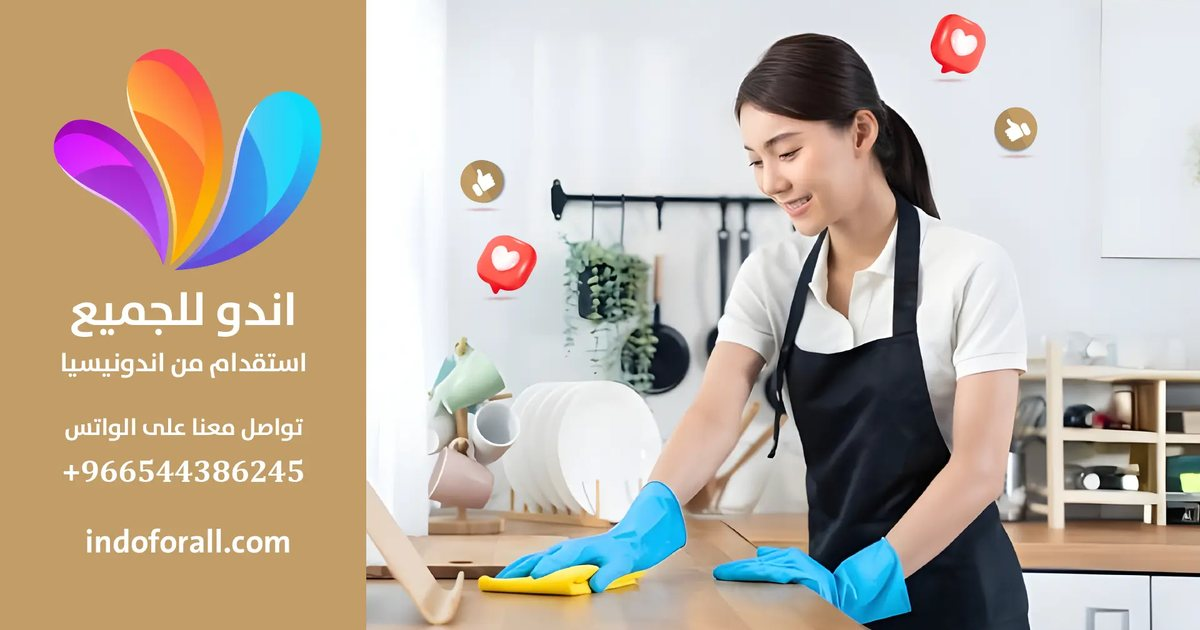
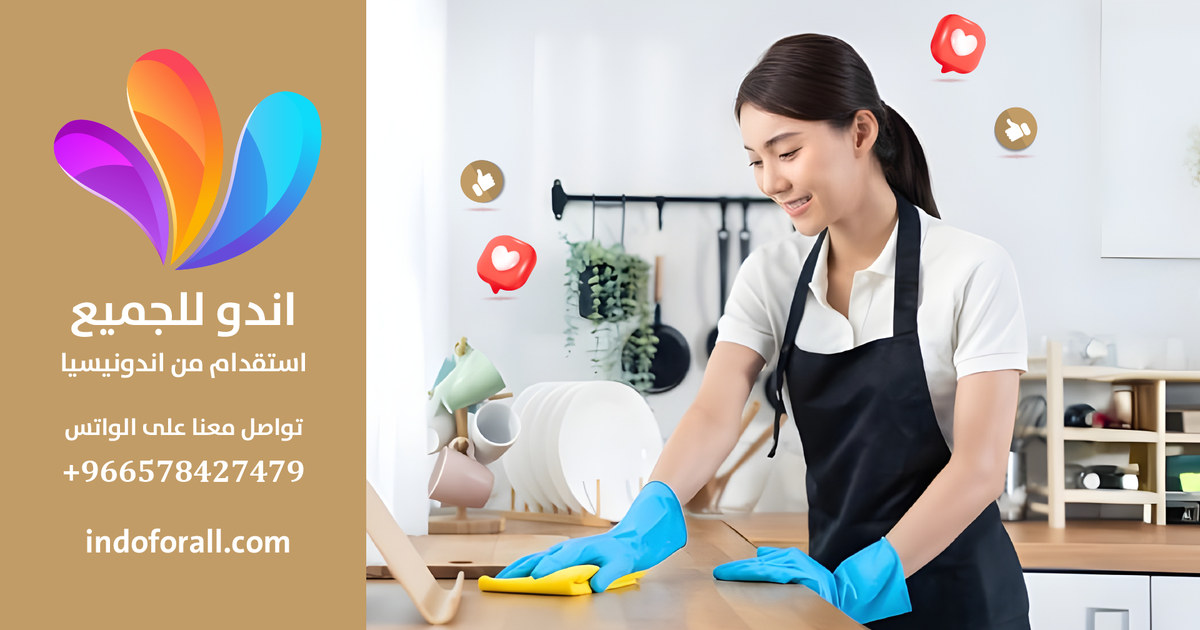
New share image with the new WhatsApp number; remove unused folder
- og-image.jpg rebuilt from the updated design image (same 1200x630
  crop, new number +966578427479); referenced as og-image.jpg?v=2 so
  Facebook/WhatsApp/X fetch the new picture instead of a cached one.
- Include the owner's updated استقدام-عمالة-اندونيسية.webp (new number).
- Delete the unused استقدام-اندونيسيا/ folder (old ad thumbnail).

diff --git a/اسعار-الاستقدام-من-اندونيسيا.html b/اسعار-الاستقدام-من-اندونيسيا.html
@@ -21,7 +21,7 @@
         <meta property="og:title" content="اسعار الاستقدام من اندونيسيا وتكلفة استقدام عاملة اندونيسية | اندو للجميع" />
         <meta property="og:description" content="اسعار الاستقدام من اندونيسيا: استقدام عاملة منزلية اندونيسية بفيزة زيارة 17,000 ريال، سائق خاص 11,500 ريال، وعمالة مهنية 17,000 ريال شاملة الجواز والفحص الطبي والتفييز وتذاكر الطيران." />
         <meta property="og:url" content="https://indoforall.com/%D8%A7%D8%B3%D8%B9%D8%A7%D8%B1-%D8%A7%D9%84%D8%A7%D8%B3%D8%AA%D9%82%D8%AF%D8%A7%D9%85-%D9%85%D9%86-%D8%A7%D9%86%D8%AF%D9%88%D9%86%D9%8A%D8%B3%D9%8A%D8%A7" />
-        <meta property="og:image" content="https://indoforall.com/og-image.jpg" />
+        <meta property="og:image" content="https://indoforall.com/og-image.jpg?v=2" />
         <meta property="og:image:width" content="1200" />
         <meta property="og:image:height" content="630" />
         <meta property="og:image:alt" content="اندو للجميع - استقدام من اندونيسيا" />
@@ -30,7 +30,7 @@
         <meta name="twitter:creator" content="@indoforall" />
         <meta name="twitter:title" content="اسعار الاستقدام من اندونيسيا وتكلفة استقدام عاملة اندونيسية | اندو للجميع" />
         <meta name="twitter:description" content="اسعار الاستقدام من اندونيسيا: استقدام عاملة منزلية اندونيسية بفيزة زيارة 17,000 ريال، سائق خاص 11,500 ريال، وعمالة مهنية 17,000 ريال شاملة الجواز والفحص الطبي والتفييز وتذاكر الطيران." />
-        <meta name="twitter:image" content="https://indoforall.com/og-image.jpg" />
+        <meta name="twitter:image" content="https://indoforall.com/og-image.jpg?v=2" />
 
         <link rel="icon" href="/favicon.ico" sizes="any" />
         <link rel="icon" type="image/png" sizes="32x32" href="/favicon-32x32.png" />
@@ -104,7 +104,7 @@
         "width": 512,
         "height": 512
       },
-      "image": "https://indoforall.com/og-image.jpg",
+      "image": "https://indoforall.com/og-image.jpg?v=2",
       "description": "شركة اندو للجميع متخصصة في الاستقدام من اندونيسيا واستقدام عاملة اندونيسية وسائقين وكوادر مهنية للأسر والشركات في الرياض وجدة وجميع مدن السعودية ودول الخليج، بخبرة تتجاوز 18 سنة وضمان استبدال لمدة 3 شهور.",
       "telephone": "+966578427479",
       "email": "info@indoforall.com",
@@ -227,7 +227,7 @@
       "inLanguage": "ar-SA",
       "primaryImageOfPage": {
         "@type": "ImageObject",
-        "url": "https://indoforall.com/og-image.jpg",
+        "url": "https://indoforall.com/og-image.jpg?v=2",
         "width": 1200,
         "height": 630
       },

diff --git a/مصداقية-الاستقدام-من-اندونيسيا.html b/مصداقية-الاستقدام-من-اندونيسيا.html
@@ -21,7 +21,7 @@
         <meta property="og:title" content="مصداقية الاستقدام من اندونيسيا - إثباتات وتقييمات العملاء | اندو للجميع" />
         <meta property="og:description" content="شاهد إثباتات مصداقية اندو للجميع في الاستقدام من اندونيسيا: تذاكر ووثائق حقيقية لعمالة اندونيسية وصلت إلى عملائنا في السعودية، وتقييمات العملاء بعد استقدام عاملة اندونيسية." />
         <meta property="og:url" content="https://indoforall.com/%D9%85%D8%B5%D8%AF%D8%A7%D9%82%D9%8A%D8%A9-%D8%A7%D9%84%D8%A7%D8%B3%D8%AA%D9%82%D8%AF%D8%A7%D9%85-%D9%85%D9%86-%D8%A7%D9%86%D8%AF%D9%88%D9%86%D9%8A%D8%B3%D9%8A%D8%A7" />
-        <meta property="og:image" content="https://indoforall.com/og-image.jpg" />
+        <meta property="og:image" content="https://indoforall.com/og-image.jpg?v=2" />
         <meta property="og:image:width" content="1200" />
         <meta property="og:image:height" content="630" />
         <meta property="og:image:alt" content="اندو للجميع - استقدام من اندونيسيا" />
@@ -30,7 +30,7 @@
         <meta name="twitter:creator" content="@indoforall" />
         <meta name="twitter:title" content="مصداقية الاستقدام من اندونيسيا - إثباتات وتقييمات العملاء | اندو للجميع" />
         <meta name="twitter:description" content="شاهد إثباتات مصداقية اندو للجميع في الاستقدام من اندونيسيا: تذاكر ووثائق حقيقية لعمالة اندونيسية وصلت إلى عملائنا في السعودية، وتقييمات العملاء بعد استقدام عاملة اندونيسية." />
-        <meta name="twitter:image" content="https://indoforall.com/og-image.jpg" />
+        <meta name="twitter:image" content="https://indoforall.com/og-image.jpg?v=2" />
 
         <link rel="icon" href="/favicon.ico" sizes="any" />
         <link rel="icon" type="image/png" sizes="32x32" href="/favicon-32x32.png" />
@@ -104,7 +104,7 @@
         "width": 512,
         "height": 512
       },
-      "image": "https://indoforall.com/og-image.jpg",
+      "image": "https://indoforall.com/og-image.jpg?v=2",
       "description": "شركة اندو للجميع متخصصة في الاستقدام من اندونيسيا واستقدام عاملة اندونيسية وسائقين وكوادر مهنية للأسر والشركات في الرياض وجدة وجميع مدن السعودية ودول الخليج، بخبرة تتجاوز 18 سنة وضمان استبدال لمدة 3 شهور.",
       "telephone": "+966578427479",
       "email": "info@indoforall.com",
@@ -227,7 +227,7 @@
       "inLanguage": "ar-SA",
       "primaryImageOfPage": {
         "@type": "ImageObject",
-        "url": "https://indoforall.com/og-image.jpg",
+        "url": "https://indoforall.com/og-image.jpg?v=2",
         "width": 1200,
         "height": 630
       },

diff --git a/طريقة-الاستقدام-من-اندونيسيا.html b/طريقة-الاستقدام-من-اندونيسيا.html
@@ -21,7 +21,7 @@
         <meta property="og:title" content="طريقة الاستقدام من اندونيسيا - خطوات استقدام عاملة اندونيسية | اندو للجميع" />
         <meta property="og:description" content="طريقة الاستقدام من اندونيسيا خطوة بخطوة: كيف تستقدم عاملة من اندونيسيا عبر 5 مراحل بسيطة من اختيار العاملة ورفع الطلب حتى حجز التذاكر ووصولها خلال 12-14 يوم." />
         <meta property="og:url" content="https://indoforall.com/%D8%B7%D8%B1%D9%8A%D9%82%D8%A9-%D8%A7%D9%84%D8%A7%D8%B3%D8%AA%D9%82%D8%AF%D8%A7%D9%85-%D9%85%D9%86-%D8%A7%D9%86%D8%AF%D9%88%D9%86%D9%8A%D8%B3%D9%8A%D8%A7" />
-        <meta property="og:image" content="https://indoforall.com/og-image.jpg" />
+        <meta property="og:image" content="https://indoforall.com/og-image.jpg?v=2" />
         <meta property="og:image:width" content="1200" />
         <meta property="og:image:height" content="630" />
         <meta property="og:image:alt" content="اندو للجميع - استقدام من اندونيسيا" />
@@ -30,7 +30,7 @@
         <meta name="twitter:creator" content="@indoforall" />
         <meta name="twitter:title" content="طريقة الاستقدام من اندونيسيا - خطوات استقدام عاملة اندونيسية | اندو للجميع" />
         <meta name="twitter:description" content="طريقة الاستقدام من اندونيسيا خطوة بخطوة: كيف تستقدم عاملة من اندونيسيا عبر 5 مراحل بسيطة من اختيار العاملة ورفع الطلب حتى حجز التذاكر ووصولها خلال 12-14 يوم." />
-        <meta name="twitter:image" content="https://indoforall.com/og-image.jpg" />
+        <meta name="twitter:image" content="https://indoforall.com/og-image.jpg?v=2" />
 
         <link rel="icon" href="/favicon.ico" sizes="any" />
         <link rel="icon" type="image/png" sizes="32x32" href="/favicon-32x32.png" />
@@ -104,7 +104,7 @@
         "width": 512,
         "height": 512
       },
-      "image": "https://indoforall.com/og-image.jpg",
+      "image": "https://indoforall.com/og-image.jpg?v=2",
       "description": "شركة اندو للجميع متخصصة في الاستقدام من اندونيسيا واستقدام عاملة اندونيسية وسائقين وكوادر مهنية للأسر والشركات في الرياض وجدة وجميع مدن السعودية ودول الخليج، بخبرة تتجاوز 18 سنة وضمان استبدال لمدة 3 شهور.",
       "telephone": "+966578427479",
       "email": "info@indoforall.com",
@@ -227,7 +227,7 @@
       "inLanguage": "ar-SA",
       "primaryImageOfPage": {
         "@type": "ImageObject",
-        "url": "https://indoforall.com/og-image.jpg",
+        "url": "https://indoforall.com/og-image.jpg?v=2",
         "width": 1200,
         "height": 630
       },

diff --git a/استقدام-اندو-للجميع.html b/استقدام-اندو-للجميع.html
@@ -21,7 +21,7 @@
         <meta property="og:title" content="استقدام اندو للجميع - شركة متخصصة في الاستقدام من اندونيسيا | اندو للجميع" />
         <meta property="og:description" content="تعرف على شركة اندو للجميع المتخصصة في الاستقدام من اندونيسيا واستقدام عاملة اندونيسية للأسر في السعودية والخليج، بخبرة تتجاوز 18 سنة وفريق يتابعك قبل وبعد وصول العاملة." />
         <meta property="og:url" content="https://indoforall.com/%D8%A7%D8%B3%D8%AA%D9%82%D8%AF%D8%A7%D9%85-%D8%A7%D9%86%D8%AF%D9%88-%D9%84%D9%84%D8%AC%D9%85%D9%8A%D8%B9" />
-        <meta property="og:image" content="https://indoforall.com/og-image.jpg" />
+        <meta property="og:image" content="https://indoforall.com/og-image.jpg?v=2" />
         <meta property="og:image:width" content="1200" />
         <meta property="og:image:height" content="630" />
         <meta property="og:image:alt" content="اندو للجميع - استقدام من اندونيسيا" />
@@ -30,7 +30,7 @@
         <meta name="twitter:creator" content="@indoforall" />
         <meta name="twitter:title" content="استقدام اندو للجميع - شركة متخصصة في الاستقدام من اندونيسيا | اندو للجميع" />
         <meta name="twitter:description" content="تعرف على شركة اندو للجميع المتخصصة في الاستقدام من اندونيسيا واستقدام عاملة اندونيسية للأسر في السعودية والخليج، بخبرة تتجاوز 18 سنة وفريق يتابعك قبل وبعد وصول العاملة." />
-        <meta name="twitter:image" content="https://indoforall.com/og-image.jpg" />
+        <meta name="twitter:image" content="https://indoforall.com/og-image.jpg?v=2" />
 
         <link rel="icon" href="/favicon.ico" sizes="any" />
         <link rel="icon" type="image/png" sizes="32x32" href="/favicon-32x32.png" />
@@ -104,7 +104,7 @@
         "width": 512,
         "height": 512
       },
-      "image": "https://indoforall.com/og-image.jpg",
+      "image": "https://indoforall.com/og-image.jpg?v=2",
       "description": "شركة اندو للجميع متخصصة في الاستقدام من اندونيسيا واستقدام عاملة اندونيسية وسائقين وكوادر مهنية للأسر والشركات في الرياض وجدة وجميع مدن السعودية ودول الخليج، بخبرة تتجاوز 18 سنة وضمان استبدال لمدة 3 شهور.",
       "telephone": "+966578427479",
       "email": "info@indoforall.com",
@@ -227,7 +227,7 @@
       "inLanguage": "ar-SA",
       "primaryImageOfPage": {
         "@type": "ImageObject",
-        "url": "https://indoforall.com/og-image.jpg",
+        "url": "https://indoforall.com/og-image.jpg?v=2",
         "width": 1200,
         "height": 630
       },

diff --git a/اسئلة-الاستقدام-من-اندونيسيا.html b/اسئلة-الاستقدام-من-اندونيسيا.html
@@ -21,7 +21,7 @@
         <meta property="og:title" content="اسئلة الاستقدام من اندونيسيا وإجاباتها | اندو للجميع" />
         <meta property="og:description" content="إجابات واضحة لأكثر اسئلة الاستقدام من اندونيسيا شيوعًا: التأشيرة ومتطلباتها، مدة وصول العاملة، الضمان والاستبدال، طريقة الدفع وتجديد الفيزا وتحويلها إلى إقامة." />
         <meta property="og:url" content="https://indoforall.com/%D8%A7%D8%B3%D8%A6%D9%84%D8%A9-%D8%A7%D9%84%D8%A7%D8%B3%D8%AA%D9%82%D8%AF%D8%A7%D9%85-%D9%85%D9%86-%D8%A7%D9%86%D8%AF%D9%88%D9%86%D9%8A%D8%B3%D9%8A%D8%A7" />
-        <meta property="og:image" content="https://indoforall.com/og-image.jpg" />
+        <meta property="og:image" content="https://indoforall.com/og-image.jpg?v=2" />
         <meta property="og:image:width" content="1200" />
         <meta property="og:image:height" content="630" />
         <meta property="og:image:alt" content="اندو للجميع - استقدام من اندونيسيا" />
@@ -30,7 +30,7 @@
         <meta name="twitter:creator" content="@indoforall" />
         <meta name="twitter:title" content="اسئلة الاستقدام من اندونيسيا وإجاباتها | اندو للجميع" />
         <meta name="twitter:description" content="إجابات واضحة لأكثر اسئلة الاستقدام من اندونيسيا شيوعًا: التأشيرة ومتطلباتها، مدة وصول العاملة، الضمان والاستبدال، طريقة الدفع وتجديد الفيزا وتحويلها إلى إقامة." />
-        <meta name="twitter:image" content="https://indoforall.com/og-image.jpg" />
+        <meta name="twitter:image" content="https://indoforall.com/og-image.jpg?v=2" />
 
         <link rel="icon" href="/favicon.ico" sizes="any" />
         <link rel="icon" type="image/png" sizes="32x32" href="/favicon-32x32.png" />
@@ -104,7 +104,7 @@
         "width": 512,
         "height": 512
       },
-      "image": "https://indoforall.com/og-image.jpg",
+      "image": "https://indoforall.com/og-image.jpg?v=2",
       "description": "شركة اندو للجميع متخصصة في الاستقدام من اندونيسيا واستقدام عاملة اندونيسية وسائقين وكوادر مهنية للأسر والشركات في الرياض وجدة وجميع مدن السعودية ودول الخليج، بخبرة تتجاوز 18 سنة وضمان استبدال لمدة 3 شهور.",
       "telephone": "+966578427479",
       "email": "info@indoforall.com",
@@ -227,7 +227,7 @@
       "inLanguage": "ar-SA",
       "primaryImageOfPage": {
         "@type": "ImageObject",
-        "url": "https://indoforall.com/og-image.jpg",
+        "url": "https://indoforall.com/og-image.jpg?v=2",
         "width": 1200,
         "height": 630
       },

diff --git a/حسابات-الاستقدام-من-اندونيسيا.html b/حسابات-الاستقدام-من-اندونيسيا.html
@@ -21,7 +21,7 @@
         <meta property="og:title" content="حسابات الاستقدام من اندونيسيا الرسمية - اندو للجميع" />
         <meta property="og:description" content="الحسابات الرسمية لشركة اندو للجميع للاستقدام من اندونيسيا على تويتر وانستقرام وفيسبوك وتيك توك وواتساب — تواصل معنا عبر القنوات الموثوقة فقط." />
         <meta property="og:url" content="https://indoforall.com/%D8%AD%D8%B3%D8%A7%D8%A8%D8%A7%D8%AA-%D8%A7%D9%84%D8%A7%D8%B3%D8%AA%D9%82%D8%AF%D8%A7%D9%85-%D9%85%D9%86-%D8%A7%D9%86%D8%AF%D9%88%D9%86%D9%8A%D8%B3%D9%8A%D8%A7" />
-        <meta property="og:image" content="https://indoforall.com/og-image.jpg" />
+        <meta property="og:image" content="https://indoforall.com/og-image.jpg?v=2" />
         <meta property="og:image:width" content="1200" />
         <meta property="og:image:height" content="630" />
         <meta property="og:image:alt" content="اندو للجميع - استقدام من اندونيسيا" />
@@ -30,7 +30,7 @@
         <meta name="twitter:creator" content="@indoforall" />
         <meta name="twitter:title" content="حسابات الاستقدام من اندونيسيا الرسمية - اندو للجميع" />
         <meta name="twitter:description" content="الحسابات الرسمية لشركة اندو للجميع للاستقدام من اندونيسيا على تويتر وانستقرام وفيسبوك وتيك توك وواتساب — تواصل معنا عبر القنوات الموثوقة فقط." />
-        <meta name="twitter:image" content="https://indoforall.com/og-image.jpg" />
+        <meta name="twitter:image" content="https://indoforall.com/og-image.jpg?v=2" />
 
         <link rel="icon" href="/favicon.ico" sizes="any" />
         <link rel="icon" type="image/png" sizes="32x32" href="/favicon-32x32.png" />
@@ -104,7 +104,7 @@
         "width": 512,
         "height": 512
       },
-      "image": "https://indoforall.com/og-image.jpg",
+      "image": "https://indoforall.com/og-image.jpg?v=2",
       "description": "شركة اندو للجميع متخصصة في الاستقدام من اندونيسيا واستقدام عاملة اندونيسية وسائقين وكوادر مهنية للأسر والشركات في الرياض وجدة وجميع مدن السعودية ودول الخليج، بخبرة تتجاوز 18 سنة وضمان استبدال لمدة 3 شهور.",
       "telephone": "+966578427479",
       "email": "info@indoforall.com",
@@ -227,7 +227,7 @@
       "inLanguage": "ar-SA",
       "primaryImageOfPage": {
         "@type": "ImageObject",
-        "url": "https://indoforall.com/og-image.jpg",
+        "url": "https://indoforall.com/og-image.jpg?v=2",
         "width": 1200,
         "height": 630
       },

diff --git a/index.html b/index.html
@@ -21,7 +21,7 @@
         <meta property="og:title" content="استقدام من اندونيسيا - استقدام عاملة اندونيسية | اندو للجميع" />
         <meta property="og:description" content="استقدام من اندونيسيا مع اندو للجميع: استقدام عاملة اندونيسية وسائق خاص إلى الرياض وجدة وجميع مدن المملكة، وصول خلال 12-14 يوم، ضمان 3 شهور وخبرة +18 سنة. اطلب الآن عبر الواتساب." />
         <meta property="og:url" content="https://indoforall.com/" />
-        <meta property="og:image" content="https://indoforall.com/og-image.jpg" />
+        <meta property="og:image" content="https://indoforall.com/og-image.jpg?v=2" />
         <meta property="og:image:width" content="1200" />
         <meta property="og:image:height" content="630" />
         <meta property="og:image:alt" content="اندو للجميع - استقدام من اندونيسيا" />
@@ -30,7 +30,7 @@
         <meta name="twitter:creator" content="@indoforall" />
         <meta name="twitter:title" content="استقدام من اندونيسيا - استقدام عاملة اندونيسية | اندو للجميع" />
         <meta name="twitter:description" content="استقدام من اندونيسيا مع اندو للجميع: استقدام عاملة اندونيسية وسائق خاص إلى الرياض وجدة وجميع مدن المملكة، وصول خلال 12-14 يوم، ضمان 3 شهور وخبرة +18 سنة. اطلب الآن عبر الواتساب." />
-        <meta name="twitter:image" content="https://indoforall.com/og-image.jpg" />
+        <meta name="twitter:image" content="https://indoforall.com/og-image.jpg?v=2" />
 
         <link rel="icon" href="/favicon.ico" sizes="any" />
         <link rel="icon" type="image/png" sizes="32x32" href="/favicon-32x32.png" />
@@ -104,7 +104,7 @@
         "width": 512,
         "height": 512
       },
-      "image": "https://indoforall.com/og-image.jpg",
+      "image": "https://indoforall.com/og-image.jpg?v=2",
       "description": "شركة اندو للجميع متخصصة في الاستقدام من اندونيسيا واستقدام عاملة اندونيسية وسائقين وكوادر مهنية للأسر والشركات في الرياض وجدة وجميع مدن السعودية ودول الخليج، بخبرة تتجاوز 18 سنة وضمان استبدال لمدة 3 شهور.",
       "telephone": "+966578427479",
       "email": "info@indoforall.com",
@@ -227,7 +227,7 @@
       "inLanguage": "ar-SA",
       "primaryImageOfPage": {
         "@type": "ImageObject",
-        "url": "https://indoforall.com/og-image.jpg",
+        "url": "https://indoforall.com/og-image.jpg?v=2",
         "width": 1200,
         "height": 630
       },

diff --git a/404.html b/404.html
@@ -18,7 +18,7 @@
         <meta property="og:title" content="الصفحة غير موجودة - اندو للجميع" />
         <meta property="og:description" content="الصفحة المطلوبة غير موجودة. يمكنك العودة إلى الصفحة الرئيسية لخدمة الاستقدام من اندونيسيا واستقدام عاملة اندونيسية مع اندو للجميع." />
         <meta property="og:url" content="https://indoforall.com/" />
-        <meta property="og:image" content="https://indoforall.com/og-image.jpg" />
+        <meta property="og:image" content="https://indoforall.com/og-image.jpg?v=2" />
         <meta property="og:image:width" content="1200" />
         <meta property="og:image:height" content="630" />
         <meta property="og:image:alt" content="اندو للجميع - استقدام من اندونيسيا" />
@@ -27,7 +27,7 @@
         <meta name="twitter:creator" content="@indoforall" />
         <meta name="twitter:title" content="الصفحة غير موجودة - اندو للجميع" />
         <meta name="twitter:description" content="الصفحة المطلوبة غير موجودة. يمكنك العودة إلى الصفحة الرئيسية لخدمة الاستقدام من اندونيسيا واستقدام عاملة اندونيسية مع اندو للجميع." />
-        <meta name="twitter:image" content="https://indoforall.com/og-image.jpg" />
+        <meta name="twitter:image" content="https://indoforall.com/og-image.jpg?v=2" />
 
         <link rel="icon" href="/favicon.ico" sizes="any" />
         <link rel="icon" type="image/png" sizes="32x32" href="/favicon-32x32.png" />
